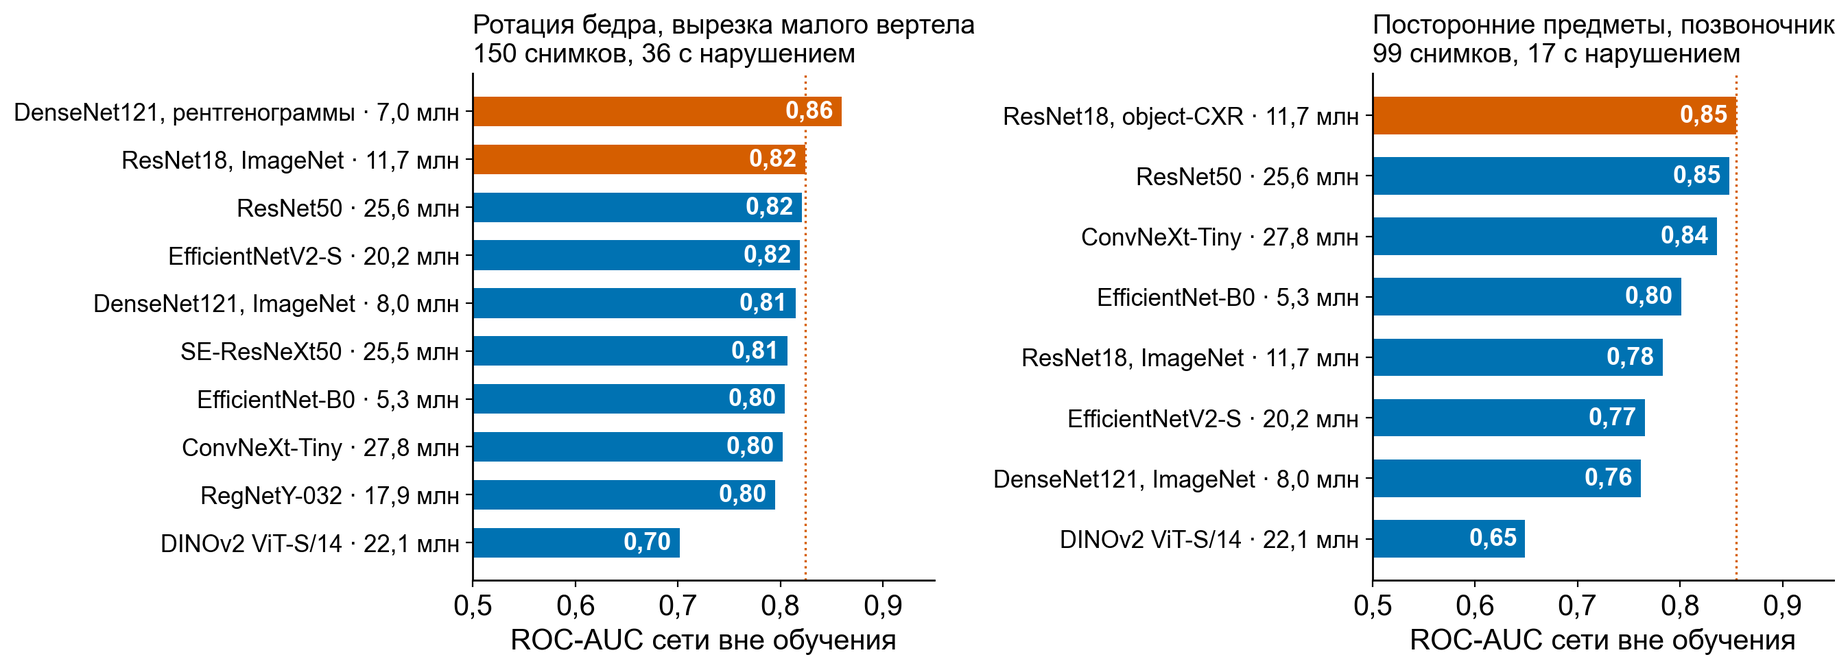
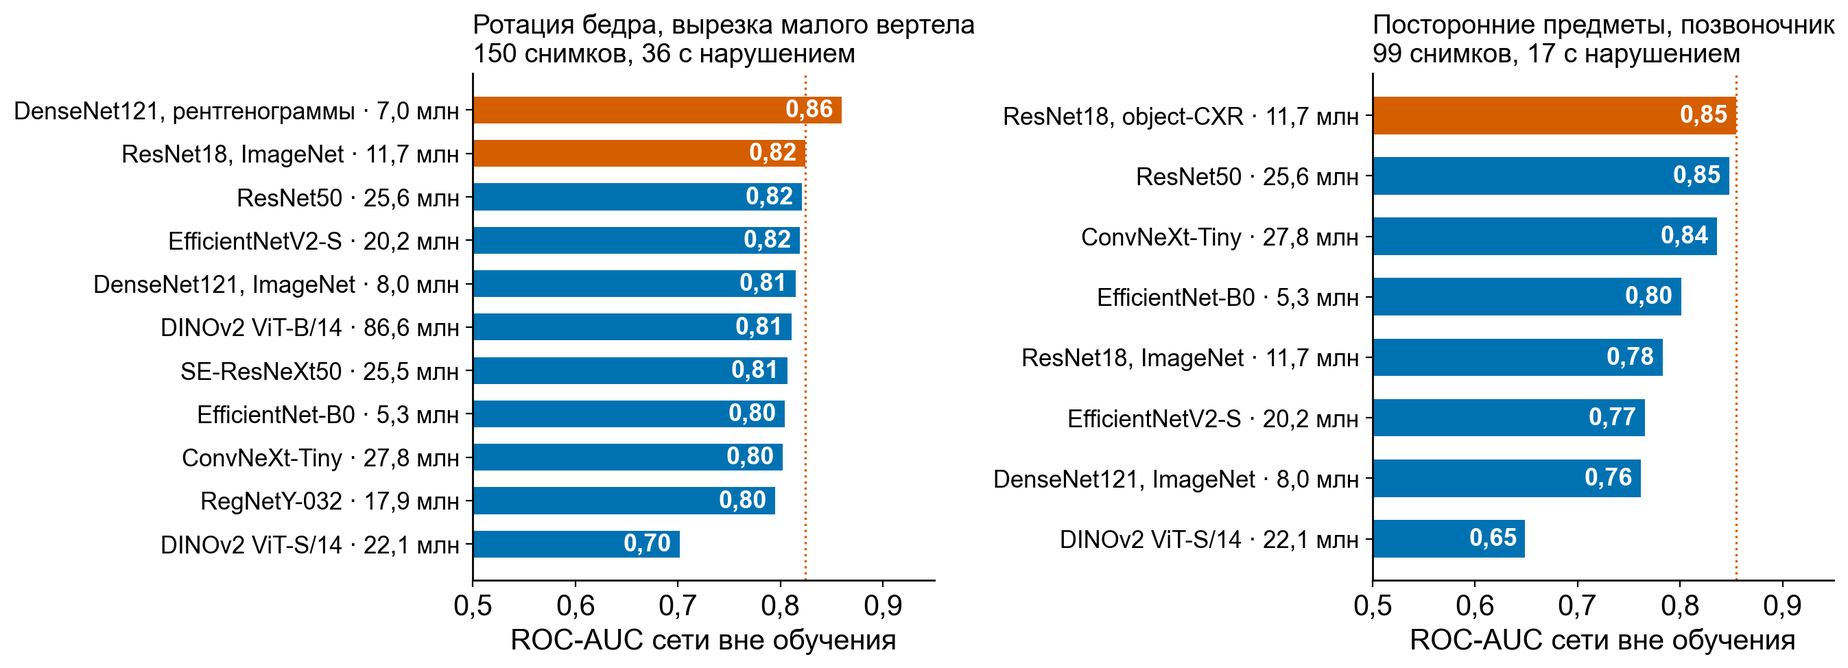
Эксп. 16 завершён: DINOv2 ViT-B 0,811; рисунок и слайд сравнения 13 сетей

diff --git a/presentation/build_deck.py b/presentation/build_deck.py
@@ -279,7 +279,7 @@ figure_slide("Перенос обучения", "Предобучение на 9
              "Набор object-CXR (JF Healthcare, MIDL 2020; CC BY-NC 4.0): 10 000 рентгенограмм, 5000 с посторонними предметами · "
              "RadImageNet. Radiology: Artificial Intelligence. DOI: 10.1148/ryai.210315", 2.8)
 
-figure_slide("Сравнение сетей", "Увеличение сети не повысило ROC-AUC; предобучение на рентгенограммах повысило с 0,82 до 0,86",
+figure_slide("Сравнение сетей", "Сети до 87 млн параметров не превзошли ResNet18; предобучение на рентгенограммах подняло ROC-AUC с 0,82 до 0,86",
              os.path.join(FIG, "arch.png"),
              "Три сети DenseNet121 с рентгенограмм в ансамбле: ROC-AUC критерия 0,866 → 0,873, разница +0,007 [−0,003; +0,019]. Сети включены в модель.",
              "Собственные данные: experiments/exp16_architectures.py, docs/08_Рисерч_что_ещё.md; 25 эпох, одинаковые разбиения по исследованиям · "

diff --git a/presentation/make_figures.py b/presentation/make_figures.py
@@ -104,7 +104,7 @@ ARCH = [  # имя, млн параметров, бедро (вырезка ма
     ("ResNet18, ImageNet", 11.7, 0.824, 0.783, OURS, LIT), ("ResNet18, object-CXR", 11.7, None, 0.855, OURS, OURS),
     ("RegNetY-032", 17.9, 0.795, None, LIT, LIT), ("EfficientNetV2-S", 20.2, 0.819, 0.766, LIT, LIT), ("DINOv2 ViT-S/14", 22.1, 0.702, 0.649, LIT, LIT),
     ("SE-ResNeXt50", 25.5, 0.807, None, LIT, LIT), ("ResNet50", 25.6, 0.821, 0.848, LIT, LIT), ("ConvNeXt-Tiny", 27.8, 0.802, 0.836, LIT, LIT),
-    ("DINOv2 ViT-B/14", 86.6, None, None, LIT, LIT),
+    ("DINOv2 ViT-B/14", 86.6, 0.811, None, LIT, LIT),
 ]
 fig, ax = plt.subplots(1, 2, figsize=(12.8, 4.8), gridspec_kw={"wspace": 0.95})
 for axx, col, ccol, t, base in ((ax[0], 2, 4, "Ротация бедра, вырезка малого вертела\n150 снимков, 36 с нарушением", 0.824),

diff --git a/docs/08_Рисерч_что_ещё.md b/docs/08_Рисерч_что_ещё.md
@@ -67,7 +67,7 @@
 | 14 | Атлас нормального бедра (клиницист): выравнивание подобием по 5 ориентирам, среднее и разброс по нормам, z-отклонение в зонах вертела/седалищной | |z| по кадру 0,67, зоны вертела/седалищной 0,55–0,58, LR 0,49 | не работает: 2D-проекция ротации — не «отклонение яркости», а смещение контура; CNN на вырезке это видит, атлас — нет |
 | **15** | **Детектор предметов как карта** (`experiments/exp13_objectcxr_heatmap.py`): ResNet18+FPN → тепловая карта, обучен на масках object-CXR (8000 снимков, val AUC 0,90), к DXA применён **без дообучения** | на DXA сырой AUC максимума карты 0,84, площади вне столба 0,81; в связке top-hat + CNN + карта: предметы **0,90 → 0,92**; карта показывает предмет на снимке (дуги у углов, объект у края, вуаль) | **взято в бой** (`ObjMapScorer`, признаки `om_max_all`, `om_area`, рамки в details/оверлее). Итог по снимку: AUC 0,845, F1 0,752, acc 0,851, macro-F1 0,649. Это и метрика, и объяснимость «вот предмет» |
 | 11 | RadImageNet-инициализация ResNet50 vs ImageNet (`--init`) | вырезка вертела: ImageNet 0.821 / RadImageNet 0.809; предметы @320: 0.848 / 0.549; «любое» бедро: 0.840 / 0.736 | RadImageNet **не помогает**, у предметов сильно хуже (предобучка на КТ/МРТ/УЗИ не про тонкие линии); ImageNet остаётся. Побочно: ResNet50-ImageNet @320 по предметам 0.848 ≈ ResNet18 @512 (0,83) |
-| **16** | **Крупные и трансформерные сети, веса с рентгенограмм** (28.09; `--arch timm:<имя>`, `--arch xrv:densenet121-res224-all`; сравнение — `experiments/exp16_architectures.py`). Одинаковые разбиения по исследованиям, 25 эпох | **Вырезка малого вертела (150 снимков):** ResNet18 0,824 · ResNet50 0,821 · EfficientNetV2-S 0,819 · DenseNet121-ImageNet 0,815 · SE-ResNeXt50 0,807 · EfficientNet-B0 0,804 · RegNetY-032 0,795 · DINOv2 ViT-S/14 0,702 · **DenseNet121 с рентгенограмм грудной клетки (TorchXRayVision): 0,860 / 0,858 (40 эпох) / 0,877 (другое разбиение)**; та же сеть на вырезке седалищной кости 0,844, проксимального отдела 0,838, по всему кадру 0,798. Другие веса той же сети на вырезке вертела: CheXpert 0,860, NIH 0,854, MIMIC-CXR 0,822; вырезка вертела 140 px 0,861; вырезка шейки 0,725. **Предметы (99 снимков):** ResNet18 object-CXR 0,855 · ResNet50 0,848 · EfficientNet-B0 0,801 · DenseNet121-ImageNet 0,762 · EfficientNetV2-S@512 0,766 · DINOv2 ViT-S@448 0,649 · DenseNet121-рентген 0,45 и 0,40 (шаг 2e-4 и 5e-5). **Редкие критерии, DenseNet121-рентген по кадру:** укладка позвоночника 0,763 (измерения 0,901), ось 0,511 (измерения 0,799), поле ROI 0,755 (измерения 0,827). **В ансамбле по бедру:** любая сеть с ImageNet меняет ROC-AUC критерия на ±0,01; боевой + 3 DenseNet121-рентген (вертел, седалищная, проксимальный отдел) 0,866 → 0,873, парная разница +0,007 [−0,003; +0,019]; боевой + все 8 сетей DenseNet121-рентген 0,876, разница +0,011 [−0,007; +0,033]; ещё пять сетей DenseNet121 поверх взятых трёх — разница +0,002…+0,005, интервалы включают ноль, метрики по снимку не меняются; по снимку ROC-AUC 0,845 → 0,849–0,851, F1 0,752 → 0,762, accuracy 0,851 → 0,859 (два снимка из 249) | **размер сети прироста не даёт** (9–26 млн параметров и трансформер не лучше ResNet18 на 99–150 снимках). **Предобучение на рентгенограммах помогает там, где признак — форма кости** (+0,045 одной сети на той же архитектуре), и мешает на посторонних предметах: сети, обученные ставить диагноз по рентгенограмме, приучены не замечать провода и застёжки; для предметов работает предобучение на задаче «есть ли предмет» (эксп. 12). На редких критериях (5–10 снимков с нарушением) сеть уступает измерениям. ConvNeXt-Tiny: вырезка вертела 0,802, предметы @384 0,836 (обучение на CPU, 1,5 и 2,5 часа). **Взято в модель 1.0.0 решением владельца 28.09:** три сети DenseNet121-рентген (вертел, седалищная кость, проксимальный отдел) добавлены к семи сетям по бедру. Итог по снимку: ROC-AUC 0,849 [0,782; 0,906], F1 0,762, accuracy 0,859, macro-F1 0,653. Прирост лежит внутри доверительного интервала, направление прироста одинаково в 93 % повторов бутстрепа. Трансформеры и ConvNeXt на Apple MPS (torch 2.5.1) падают в обратном проходе — обучение на CPU |
+| **16** | **Крупные и трансформерные сети, веса с рентгенограмм** (28.09; `--arch timm:<имя>`, `--arch xrv:densenet121-res224-all`; сравнение — `experiments/exp16_architectures.py`). Одинаковые разбиения по исследованиям, 25 эпох | **Вырезка малого вертела (150 снимков):** ResNet18 0,824 · ResNet50 0,821 · EfficientNetV2-S 0,819 · DenseNet121-ImageNet 0,815 · SE-ResNeXt50 0,807 · EfficientNet-B0 0,804 · RegNetY-032 0,795 · DINOv2 ViT-B/14 (87 млн параметров, веса 490 МБ) 0,811 · DINOv2 ViT-S/14 0,702 · **DenseNet121 с рентгенограмм грудной клетки (TorchXRayVision): 0,860 / 0,858 (40 эпох) / 0,877 (другое разбиение)**; та же сеть на вырезке седалищной кости 0,844, проксимального отдела 0,838, по всему кадру 0,798. Другие веса той же сети на вырезке вертела: CheXpert 0,860, NIH 0,854, MIMIC-CXR 0,822; вырезка вертела 140 px 0,861; вырезка шейки 0,725. **Предметы (99 снимков):** ResNet18 object-CXR 0,855 · ResNet50 0,848 · EfficientNet-B0 0,801 · DenseNet121-ImageNet 0,762 · EfficientNetV2-S@512 0,766 · DINOv2 ViT-S@448 0,649 · DenseNet121-рентген 0,45 и 0,40 (шаг 2e-4 и 5e-5). **Редкие критерии, DenseNet121-рентген по кадру:** укладка позвоночника 0,763 (измерения 0,901), ось 0,511 (измерения 0,799), поле ROI 0,755 (измерения 0,827). **В ансамбле по бедру:** любая сеть с ImageNet меняет ROC-AUC критерия на ±0,01; боевой + 3 DenseNet121-рентген (вертел, седалищная, проксимальный отдел) 0,866 → 0,873, парная разница +0,007 [−0,003; +0,019]; боевой + все 8 сетей DenseNet121-рентген 0,876, разница +0,011 [−0,007; +0,033]; ещё пять сетей DenseNet121 поверх взятых трёх — разница +0,002…+0,005, интервалы включают ноль, метрики по снимку не меняются; ViT-B добавкой к модели — разница 0,000 [−0,009; +0,008], ConvNeXt-Tiny — −0,004 [−0,013; +0,003]; по снимку ROC-AUC 0,845 → 0,849–0,851, F1 0,752 → 0,762, accuracy 0,851 → 0,859 (два снимка из 249) | **размер сети прироста не даёт** (сети с 5–87 млн параметров и трансформеры не лучше ResNet18 на 99–150 снимках). **Предобучение на рентгенограммах помогает там, где признак — форма кости** (+0,045 одной сети на той же архитектуре), и мешает на посторонних предметах: сети, обученные ставить диагноз по рентгенограмме, приучены не замечать провода и застёжки; для предметов работает предобучение на задаче «есть ли предмет» (эксп. 12). На редких критериях (5–10 снимков с нарушением) сеть уступает измерениям. ConvNeXt-Tiny: вырезка вертела 0,802, предметы @384 0,836 (обучение на CPU, 1,5 и 2,5 часа). **Взято в модель 1.0.0 решением владельца 28.09:** три сети DenseNet121-рентген (вертел, седалищная кость, проксимальный отдел) добавлены к семи сетям по бедру. Итог по снимку: ROC-AUC 0,849 [0,782; 0,906], F1 0,762, accuracy 0,859, macro-F1 0,653. Прирост лежит внутри доверительного интервала, направление прироста одинаково в 93 % повторов бутстрепа. Трансформеры и ConvNeXt на Apple MPS (torch 2.5.1) падают в обратном проходе — обучение на CPU |
 | **17** | **Итоговая вероятность снимка в общей шкале критериев** (28.09, без обучения). Пороги критериев разные (0,48–0,89), поэтому в правиле 1 − ∏(1 − pᵢ) критерий с высоким порогом (поле ROI, укладка позвоночника) завышал вероятность у нормальных снимков. Вероятность критерия приводится к шкале, где его порог равен 0,5: logit(p′) = logit(p) − logit(порог); итог по снимку — наибольшая p′ | ROC-AUC по снимку 0,849 → **0,857** [0,802; 0,907], PR-AUC 0,710 → 0,718; бедро 0,852 → 0,875, позвоночник 0,840 → 0,820. На предыдущей модели тот же эффект: 0,845 → 0,851–0,855. Класс, типы нарушений и F1 не меняются. Доля снимков, у которых «вероятность ≥ 0,5» совпадает с вердиктом: 70 % → 100 %. Проверено и отклонено там же: калибровка Платта по областям (0,828–0,837), подмешивание сетей «любое нарушение бедра» (бедро +0,01, общий ROC-AUC −0,01…−0,03), отказ от признака оси диафиза в критерии укладки бедра (±0,005) | **взято в модель**: `predict.aggregate`, `predict.relative_prob`. Параметров для подбора нет — используются уже выбранные пороги. Заодно порог критерия теперь берётся в середине отрезка с наибольшим F1 (было — на нижнем краю): 0,75 → 0,76, 0,53 → 0,54, 0,89 → 0,90; метрики вне обучения от этого не меняются, запас до края отрезка растёт |
 | 18 | **Отбор признаков для редких критериев** (28.09): перебор всех измерений и их сочетаний для оси позвоночника и поля ROI | на всей выборке находятся наборы лучше: ось + `bottom_gap_cm` 0,80 → 0,83, F1 0,40 → 0,56; поле ROI `frame_h_cm` + `conf_min` 0,83 → 0,90. **Вложенная проверка** (набор выбирается внутри обучающей части, оценивается на отложенном блоке, 8 повторов): ось 0,70 против 0,77 у заданного набора; поле ROI 0,72 против 0,88; укладка позвоночника 0,83 против 0,92 | не берём: при 6–10 снимках с нарушением отбор признаков по данным не обобщается. Наборы признаков остаются заданными по клиническому смыслу |
 | 19 | **DenseNet121 для посторонних предметов в два шага** (28.09): веса рентгенограмм → предобучение на задаче «есть ли предмет» (object-CXR, 9000 снимков) → дообучение на 99 снимках | на object-CXR ROC-AUC 0,80 (ResNet18 с ImageNet — 0,89); на денситометрии 0,40 · 0,49 · 0,53 по трём разбиениям | не работает. Сеть, обученная ставить диагноз по рентгенограмме, плохо переучивается на поиск предметов; для предметов остаётся ResNet18 |

diff --git a/STATUS.md b/STATUS.md
@@ -18,7 +18,7 @@
   контейнер без сети, 3 файла «Для теста» → 3 Success, вероятности совпали с локальным прогоном
 - Прототип: https://docsemenov.ru/dxa/ · Swagger: https://docsemenov.ru/dxa/docs · презентация: https://docsemenov.ru/dxa/files/DXA-QC_presentation.pdf ·
   демо-запись: https://docsemenov.ru/dxa/files/dxaqc_demo.gif
-- Эксперименты 16–20 (`docs/08`): сравнение 12 сетей, общая шкала критериев, вложенная проверка отбора признаков, DenseNet121 для предметов
+- Эксперименты 16–20 (`docs/08`): сравнение 13 сетей (от 5 до 87 млн параметров), общая шкала критериев, вложенная проверка отбора признаков, DenseNet121 для предметов
   (отклонён), кадр нестандартной ширины
 - Issues #5–#25, #30, #31 закрыты с указанием, где реализовано
 

diff --git a/docs/TRAINING.md b/docs/TRAINING.md
@@ -74,6 +74,6 @@ PYTHONPATH=src python scripts/threshold_report.py         # чувствител
 
 PatchCore, RAD-DINO, RadImageNet, атлас нормального бедра, индекс запирательного отверстия, мета-классификатор,
 признак контралатерального бедра, вырезка шейки, сети с входом 512 px для предметов, сети крупнее ResNet18
-(ResNet50, EfficientNetV2-S, SE-ResNeXt50, RegNetY-032, ConvNeXt-Tiny) и трансформер DINOv2 — цифры в `docs/08_Рисерч_что_ещё.md`.
+(ResNet50, EfficientNetV2-S, SE-ResNeXt50, RegNetY-032, ConvNeXt-Tiny) и трансформеры DINOv2 ViT-S и ViT-B — цифры в `docs/08_Рисерч_что_ещё.md`.
 
 Библиотеки `timm` и `torchxrayvision` нужны только для обучения и экспериментов. Сервис и контейнер используют torchvision.
